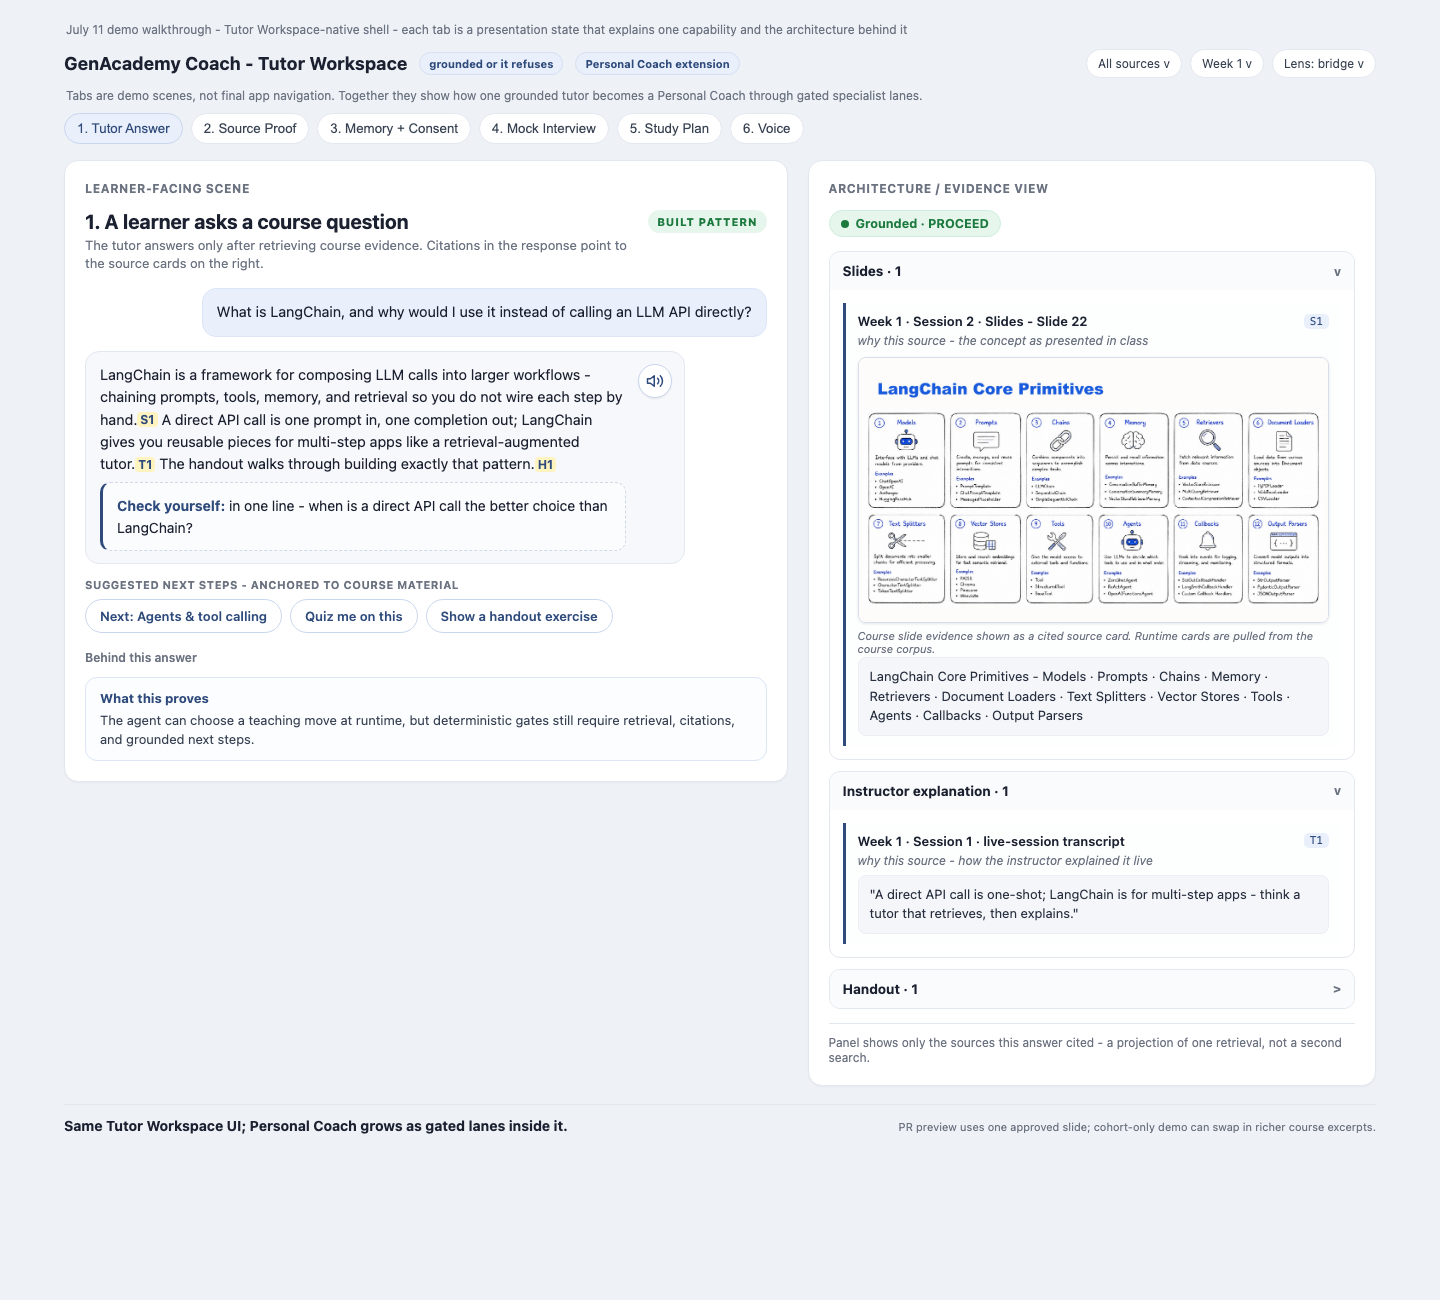
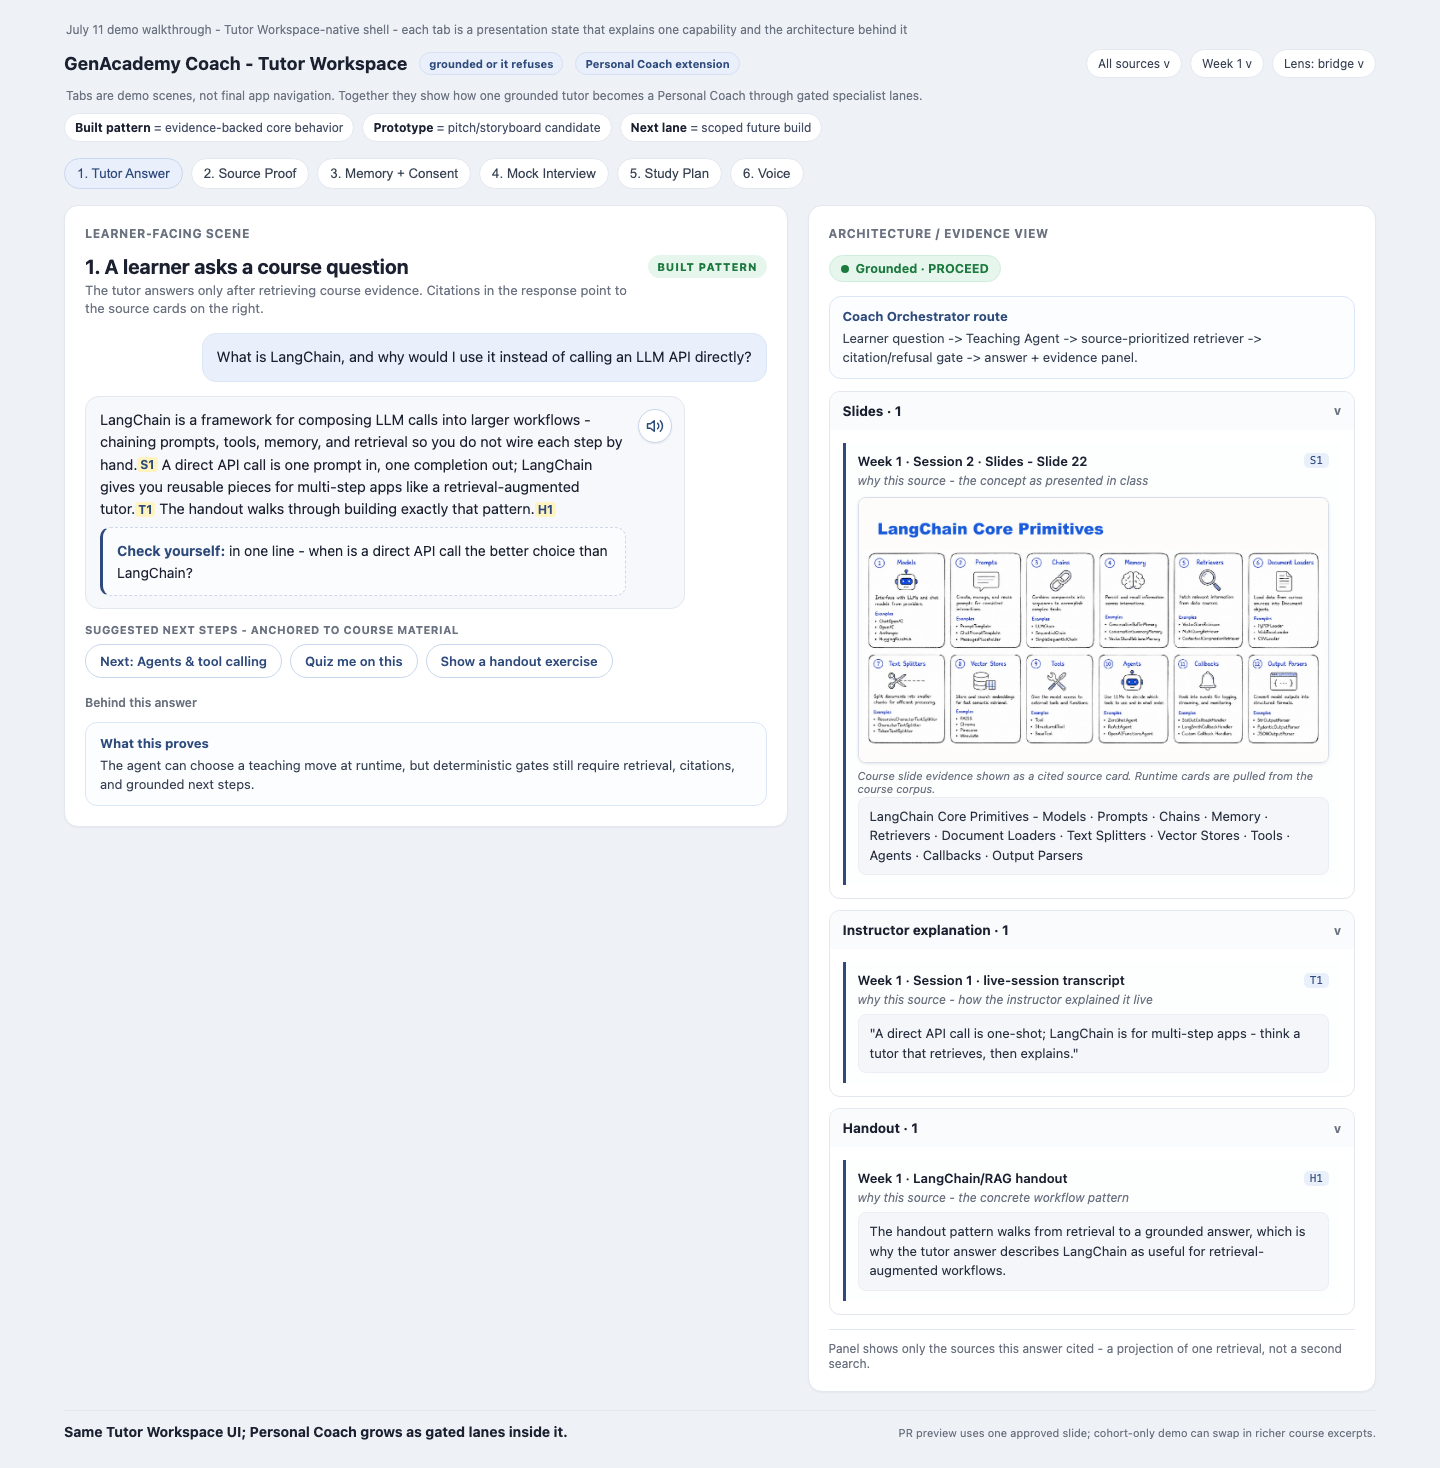
Strengthen personal coach prototype review fixes

diff --git a/docs/assets/pitch/personal-coach-prototype-storyboard.html b/docs/assets/pitch/personal-coach-prototype-storyboard.html
@@ -30,6 +30,10 @@
     padding:6px 11px;border-radius:999px}
   .modebar{display:flex;gap:8px;margin:0 0 16px;flex-wrap:wrap}
   .walkthrough-note{font-size:12px;color:var(--muted);margin:-4px 2px 10px}
+  .legend{display:flex;flex-wrap:wrap;gap:8px;margin:0 0 16px}
+  .legend-item{font-size:12px;color:#475069;background:#fff;border:1px solid var(--line);
+    border-radius:999px;padding:6px 10px}
+  .legend-item b{color:var(--ink)}
   .mode{
     border:1px solid var(--line);
     border-radius:999px;
@@ -123,9 +127,26 @@
   .collapsed .lane-body{display:none}
   .footnote{margin-top:14px;font-size:12px;color:var(--muted);border-top:1px solid var(--line);
     padding-top:11px}
+  .route-card{border:1px solid #dbe6f7;background:#fbfdff;border-radius:12px;
+    padding:11px 13px;margin-bottom:12px}
+  .route-card b{display:block;font-size:13px;color:var(--accent);margin-bottom:5px}
+  .route-card p{font-size:13px;line-height:1.45;margin:0;color:#374151}
   .demo-proof{margin-top:12px;border:1px solid #dbe6f7;background:#fbfdff;border-radius:12px;padding:12px 14px}
   .demo-proof b{display:block;font-size:13px;color:var(--accent);margin-bottom:5px}
   .demo-proof p{font-size:13px;line-height:1.42;margin:0;color:#374151}
+  .mini-scene{border:1px solid var(--line);background:#fbfcfe;border-radius:12px;
+    padding:14px;margin-bottom:12px}
+  .mini-scene-title{font-size:11px;font-weight:800;letter-spacing:.08em;text-transform:uppercase;
+    color:var(--muted);margin:0 0 10px}
+  .mini-scene .msg:last-child{margin-bottom:0}
+  .inline-status{display:flex;flex-wrap:wrap;gap:8px;margin-top:10px}
+  .mini-pill{font-size:12px;font-weight:700;border:1px solid #c9d7ee;border-radius:999px;
+    color:var(--accent);background:#fff;padding:5px 9px}
+  .voice-meter{display:grid;grid-template-columns:42px 1fr;gap:10px;align-items:center;
+    background:#f7f8fb;border:1px solid var(--line);border-radius:12px;padding:11px 12px;margin-bottom:12px}
+  .mic-dot{width:34px;height:34px;border-radius:999px;background:var(--accent);color:#fff;
+    display:grid;place-items:center;font-size:10px;font-weight:800;letter-spacing:.04em}
+  .voice-meter p{font-size:13px;line-height:1.4;margin:0;color:#374151}
   .grid2{display:grid;grid-template-columns:repeat(2,1fr);gap:12px}
   .box{border:1px solid var(--line);border-radius:12px;background:#fff;padding:14px;min-height:106px}
   .box h3{font-size:15px;margin:0 0 8px}
@@ -175,6 +196,11 @@
   </div>
 
   <p class="walkthrough-note">Tabs are demo scenes, not final app navigation. Together they show how one grounded tutor becomes a Personal Coach through gated specialist lanes.</p>
+  <div class="legend" aria-label="Prototype status legend">
+    <span class="legend-item"><b>Built pattern</b> = evidence-backed core behavior</span>
+    <span class="legend-item"><b>Prototype</b> = pitch/storyboard candidate</span>
+    <span class="legend-item"><b>Next lane</b> = scoped future build</span>
+  </div>
   <nav class="modebar" aria-label="Demo walkthrough scenes">
     <button class="mode active" data-screen="tutor">1. Tutor Answer</button>
     <button class="mode" data-screen="evidence">2. Source Proof</button>
@@ -305,6 +331,12 @@
           </div>
           <span class="state next">Next lane</span>
         </div>
+        <div class="mini-scene">
+          <div class="mini-scene-title">Learner moment</div>
+          <div class="msg bot"><div class="bubble"><b>Interview Conductor:</b> Explain why tool-using agents need permission and citation gates.</div></div>
+          <div class="msg user"><div class="bubble">Because tools let the agent act outside text, so it should retrieve evidence first and check whether the action is allowed.</div></div>
+          <div class="check"><b>Feedback:</b> Strong start. Add one concrete tool example, then mention what happens when evidence is missing.</div>
+        </div>
         <div class="grid2">
           <div class="box purple"><h3>Interview Conductor</h3><p>Asks one open-ended question and chooses follow-ups from the learner answer.</p></div>
           <div class="box blue"><h3>Rubric Evaluator</h3><p>Grades against cited expected points and cannot reward unsupported model-prior claims.</p></div>
@@ -324,6 +356,15 @@
             <p>The planner proposes a plan from learner goals and evidence; deterministic validation checks feasibility before it is shown.</p>
           </div>
           <span class="state next">Next lane</span>
+        </div>
+        <div class="mini-scene">
+          <div class="mini-scene-title">Validated plan input</div>
+          <div class="inline-status">
+            <span class="mini-pill">Goal: demo-ready architecture pitch</span>
+            <span class="mini-pill">Gap: agent specialization</span>
+            <span class="mini-pill">Window: 90 minutes</span>
+            <span class="mini-pill">Gate: feasible</span>
+          </div>
         </div>
         <div class="timeline">
           <div class="step"><div class="num">1</div><p>Review grounding and citation gates with one short explanation.</p></div>
@@ -354,6 +395,23 @@
           </div>
           <span class="state next">Next lane</span>
         </div>
+        <div class="mini-scene">
+          <div class="mini-scene-title">Voice moment</div>
+          <div class="voice-meter">
+            <div class="mic-dot">MIC</div>
+            <p><b>Transcript:</b> "Can you explain LangChain with an example from our course?" The transcript is reviewed, then routed through the same grounded tutor path.</p>
+          </div>
+          <div class="msg bot"><div class="bubble answer-with-voice">
+            <button class="voice-replay" type="button" title="Replay spoken explanation" aria-label="Replay spoken explanation">
+              <svg viewBox="0 0 24 24" fill="none" stroke="currentColor" stroke-width="2" stroke-linecap="round" stroke-linejoin="round" aria-hidden="true">
+                <polygon points="11 5 6 9 2 9 2 15 6 15 11 19 11 5"></polygon>
+                <path d="M15.54 8.46a5 5 0 0 1 0 7.07"></path>
+                <path d="M19.07 4.93a10 10 0 0 1 0 14.14"></path>
+              </svg>
+            </button>
+            The approved grounded answer appears as text, and the same response plays as tutor voice after citation and refusal gates pass.
+          </div></div>
+        </div>
         <div class="timeline">
           <div class="step"><div class="num">1</div><p>Consent prompt and visible recording state.</p></div>
           <div class="step"><div class="num">2</div><p>Speech-to-text transcript enters the same orchestration path as typed questions.</p></div>
@@ -381,6 +439,10 @@
 
       <article class="context active" id="context-tutor">
         <span class="posture good"><span class="dot"></span>Grounded · PROCEED</span>
+        <div class="route-card">
+          <b>Coach Orchestrator route</b>
+          <p>Learner question -> Teaching Agent -> source-prioritized retriever -> citation/refusal gate -> answer + evidence panel.</p>
+        </div>
         <div class="lane">
           <div class="lane-head">Slides · 1 <span class="arw">v</span></div>
           <div class="lane-body">
@@ -405,15 +467,25 @@
             </div>
           </div>
         </div>
-        <div class="lane collapsed">
-          <div class="lane-head">Handout · 1 <span class="arw">></span></div>
-          <div class="lane-body"></div>
+        <div class="lane">
+          <div class="lane-head">Handout · 1 <span class="arw">v</span></div>
+          <div class="lane-body">
+            <div class="srccard">
+              <div class="srcrow"><span class="srclabel">Week 1 · LangChain/RAG handout</span><span class="cid">H1</span></div>
+              <div class="why">why this source - the concrete workflow pattern</div>
+              <div class="span">The handout pattern walks from retrieval to a grounded answer, which is why the tutor answer describes LangChain as useful for retrieval-augmented workflows.</div>
+            </div>
+          </div>
         </div>
         <div class="footnote">Panel shows only the sources this answer cited - a projection of one retrieval, not a second search.</div>
       </article>
 
       <article class="context" id="context-evidence">
         <span class="posture good"><span class="dot"></span>Grounded · 3 cited sources</span>
+        <div class="route-card">
+          <b>Coach Orchestrator route</b>
+          <p>Cited answer IDs -> evidence projection -> citation parity eval. The panel renders only objects attached during retrieval.</p>
+        </div>
         <div class="lane">
           <div class="lane-head">Answer citation map <span class="arw">v</span></div>
           <div class="lane-body">
@@ -468,6 +540,10 @@
 
       <article class="context" id="context-memory">
         <span class="posture wait"><span class="dot"></span>Consent required</span>
+        <div class="route-card">
+          <b>Coach Orchestrator route</b>
+          <p>Learner profile signal -> Memory Curator -> consent gate -> editable profile update or discard.</p>
+        </div>
         <div class="lane">
           <div class="lane-head">Memory gate <span class="arw">v</span></div>
           <div class="lane-body">
@@ -484,6 +560,10 @@
 
       <article class="context" id="context-interview">
         <span class="posture wait"><span class="dot"></span>Next scoped lane</span>
+        <div class="route-card">
+          <b>Coach Orchestrator route</b>
+          <p>Practice request -> Interview Conductor -> Rubric Evaluator -> Misconception Diagnoser -> Feedback Coach -> grounded next step.</p>
+        </div>
         <div class="lane">
           <div class="lane-head">Specialist separation <span class="arw">v</span></div>
           <div class="lane-body">
@@ -500,6 +580,10 @@
 
       <article class="context" id="context-plan">
         <span class="posture wait"><span class="dot"></span>Validated before shown</span>
+        <div class="route-card">
+          <b>Coach Orchestrator route</b>
+          <p>Goal + gaps + available time -> Study Planner Agent -> scheduler validator -> feasible study plan.</p>
+        </div>
         <div class="lane">
           <div class="lane-head">Scheduler validator <span class="arw">v</span></div>
           <div class="lane-body">
@@ -516,6 +600,10 @@
 
       <article class="context" id="context-voice">
         <span class="posture wait"><span class="dot"></span>Voice wraps same tutor path</span>
+        <div class="route-card">
+          <b>Coach Orchestrator route</b>
+          <p>Speech input -> transcript review -> same tutor route -> approved text answer -> text-to-speech playback.</p>
+        </div>
         <div class="lane">
           <div class="lane-head">Voice boundary <span class="arw">v</span></div>
           <div class="lane-body">
